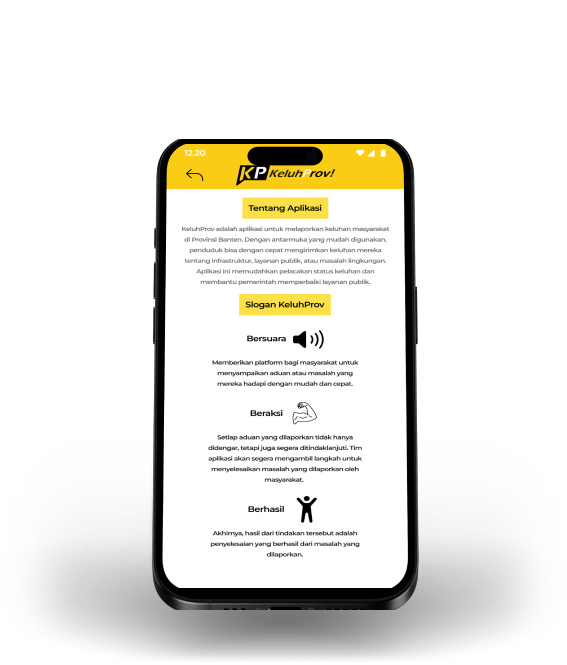
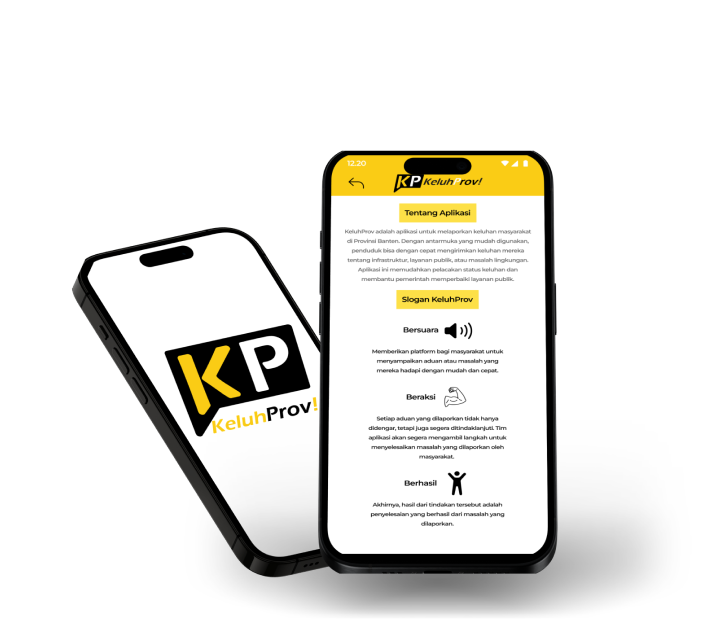
update benefit

Changed region(s): [[0.0899, 0.183, 0.8095, 1.0]]

diff --git a/my-project/src/components/Benefit/Benefit.jsx b/my-project/src/components/Benefit/Benefit.jsx
@@ -3,17 +3,15 @@ import logo2 from '../../assets/logo3.png';
 import logo3 from '../../assets/logo4.png';
 import logo4 from '../../assets/logo5.png';
 import iphoneImage from '../../assets/iphone-image2.png';
-import iphoneImage2 from '../../assets/iphone-image3.png';
+import titik from '../../assets/titik.png';
 
 export default function Benefit() {
-    
   return (
     <div className="h-[670px] bg-white flex flex-row justify-between ps-36 pe-20 relative" id="benefit">
       {/* Phone Mockups */}
-      <div className="relative mb-0 mt-auto ps-20" >
+      <div className="relative mb-0 mt-auto ps-20">
         <div className="relative">
-          <img src={iphoneImage2} alt="image"  />
-          <img src={iphoneImage} alt="image"  />
+          <img src={iphoneImage} alt="image" className=" h-auto pb-36 w-" />
         </div>
       </div>
 
